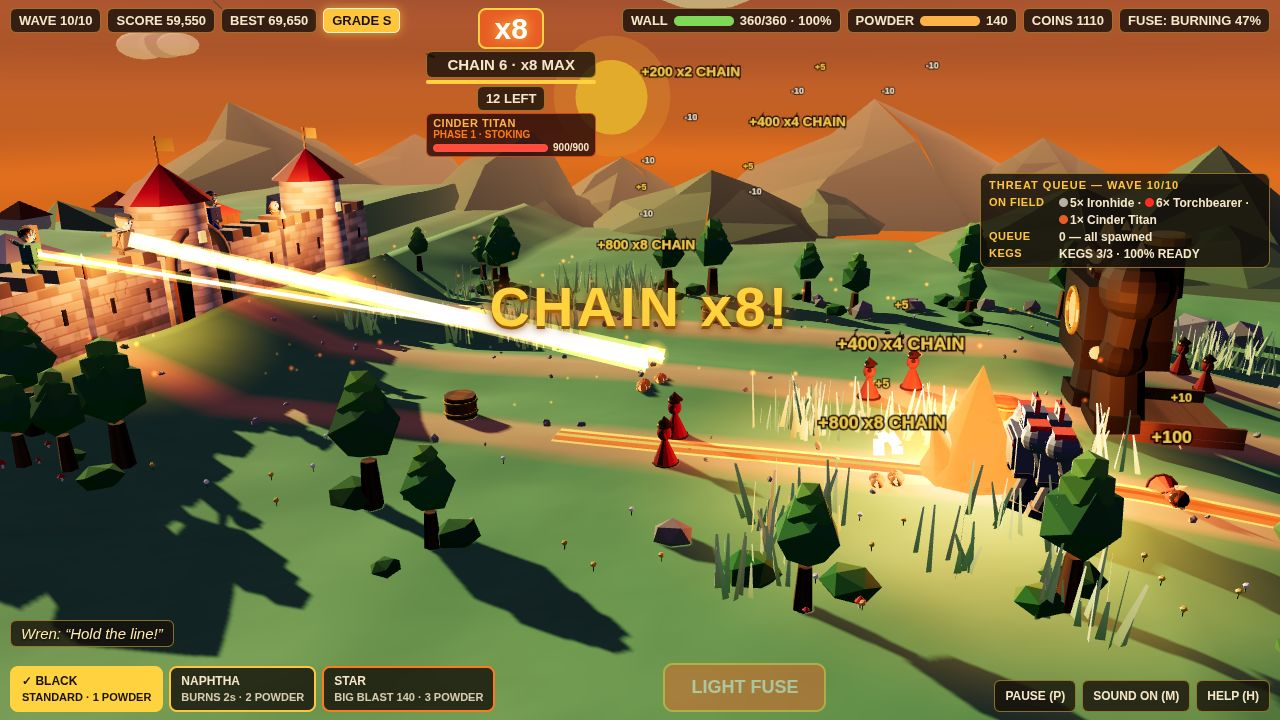
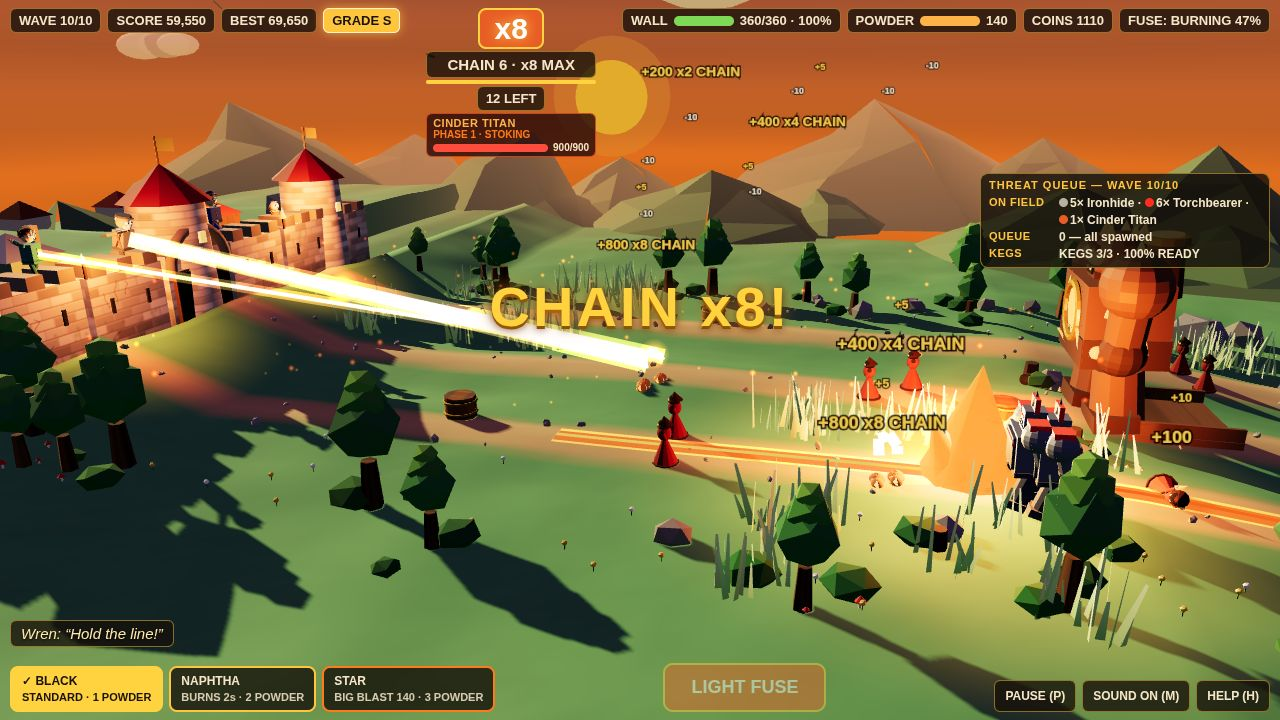
R5B: Titan glow-up + mid-field prop clusters + scorch band (Mark 01:37 WIB, items #3 + #4 + ground; staging honest skip)
- Titan: warm ember-iron body (was near-black), core 0.34s->0.44s + flicker 2.2->3.2, ember seams wrap camera sides, eyes 0.13s->0.15s. Scale 4.0x unchanged.
- Mid-field: 5 static prop clusters (15 props) + scorch band + 48 ember flecks, all frustum-confined to the action-only region so title/draft/results stay byte-identical.
- Staging: HONEST SKIP — single x8 burn in wave 10 (Titan x 33->32.5), no later x8 moment exists; numbers change within the burn itself.
- Determinism MATCH 5/5, 0 errors. Numbers EXACTLY unchanged (BEST 69,650 / action 59,550 / draft 21,050 / results S 69,650).

diff --git a/game/src/terrain.js b/game/src/terrain.js
@@ -193,6 +193,9 @@ export function buildTerrain(scene, rng) {
   const colDry = new THREE.Color(0xb59a68);
   const colTrample = new THREE.Color(0x8a7a5a);
   const colWear = new THREE.Color(0xd8bc84);
+  // R5B ground treatment: old burn scars (char) + ember glints.
+  const colScorch = new THREE.Color(0x4a3423);
+  const colEmber = new THREE.Color(0xff7a1a);
   const tmp = new THREE.Color();
   for (let i = 0; i < pos.count; i += 1) {
     const x = pos.getX(i);
@@ -235,6 +238,31 @@ export function buildTerrain(scene, rng) {
       tmp.multiplyScalar(1 + rut * 0.12 + stone * 0.06);
       // Center wear: the middle of the road is lighter, walked bare.
       tmp.lerp(colWear, (1 - laneDist / roadWidth) * 0.08);
+    }
+    // ROUND 5 AGENT B (ground treatment, Mark 01:37 WIB): old burn scars —
+    // a scorched / ember-strewn band in the inter-lane gaps. Chosen over
+    // a denser far tree line for two reasons: (1) the empty region is the
+    // MID-field, not the frame edges (which already have trees); (2) the
+    // tree line is visible in EVERY shot, while this band can be confined
+    // to the ACTION-ONLY side of the field (frustum-checked per-z:
+    // south gap x >= 25.5, north gap x >= 26.5 at y=1; band uses x >= 29
+    // / x >= 30.5 — the first try at x >= 27 / 28.5 leaked 33 pixels into
+    // the draft frame's right edge via vertex-colour interpolation +
+    // terrain-height shift, so the edge moved 2u east; capped at x <= 33
+    // to stay clear of the river/bridge at x 34.75+), so title/draft/
+    // results stay byte-identical. Patchy char (noise mask, never a solid
+    // swath) + ember flecks, max ~50% lerp in the worst patch — BRIGHT
+    // identity stays, ground stays inside Mark's 35% texture budget. The
+    // band sits BETWEEN lanes, never on a road (roads are on the lanes).
+    const inScorchSouth = z >= 4 && z <= 10 && x >= 29 && x <= 33;
+    const inScorchNorth = z >= -10 && z <= -4 && x >= 30.5 && x <= 33;
+    if (inScorchSouth || inScorchNorth) {
+      const scorchMask = smoothNoise(x * 0.5, z * 0.5, 99);
+      if (scorchMask > 0.5) {
+        tmp.lerp(colScorch, Math.min(0.5, (scorchMask - 0.5) * 1.0));
+      }
+      const fleck = hash2(Math.floor(x * 2), Math.floor(z * 2), 101);
+      if (fleck > 0.93) tmp.lerp(colEmber, 0.45);
     }
     colors[i * 3] = tmp.r;
     colors[i * 3 + 1] = tmp.g;
@@ -834,6 +862,96 @@ export function buildTerrain(scene, rng) {
     birds.add(bird);
   }
   group.add(birds);
+
+  // ROUND 5 AGENT B (item #4, Mark 01:37 WIB): mid-field prop clusters —
+  // the action frame's mid-field is ~40% empty green. The world builder
+  // put every tree/rock/bush at the field EDGES (z ±20..31) and left the
+  // playfield bare; these clusters fill the gaps BETWEEN the lanes on the
+  // action-only side. Placement rules (all frustum-checked at y=1 and
+  // y=2.5, so title/draft/results stay byte-identical): south gap x >= 27,
+  // north gap x >= 28.5, near strip x >= 20; every prop x <= 33 (clear of
+  // the river/bridge at x 34.75+); every prop >= 4.5u from a lane centre
+  // (trail + enemy path stay clear) and >= 5u from a keg spot; all props
+  // <= ~1.6u tall (low — they never occlude the trail, the beams, or the
+  // Titan). Fixed literal coordinates: no rng drawn here, so the seeded
+  // layout of everything else is untouched.
+  const clusterRockGeo = new THREE.IcosahedronGeometry(1, 0);
+  const clusterRockMat = new THREE.MeshStandardMaterial({ color: 0x8a8a7a, roughness: 1, flatShading: true });
+  const clusterStumpMat = new THREE.MeshStandardMaterial({ color: 0x4a3428, roughness: 1, flatShading: true });
+  const clusterBushGeo = new THREE.IcosahedronGeometry(1, 0);
+  const clusterBushMat = new THREE.MeshStandardMaterial({ color: 0x2e6b34, roughness: 1, flatShading: true });
+  const clusterKegMat = new THREE.MeshStandardMaterial({ map: makeKegTextureSeeded(77), roughness: 0.9 });
+  const clusters = new THREE.Group();
+  clusters.name = 'propClusters';
+  // [type, cx, cz, dx, dz, scale, rotY] — cx/cz = cluster centre.
+  // R5B fix: C1 moved 27 -> 29 (the 27 centre's rock western edge at
+  // x 25.1 grazed the draft frame's right edge — same 33-pixel leak as
+  // the scorch band; 2u east clears it with margin).
+  const clusterProps = [
+    ['rock', 29, 7, -0.8, 0.4, 1.1, 0.6],
+    ['stump', 29, 7, 0.7, -0.5, 1.0, 0],
+    ['bush', 29, 7, 0.2, 0.9, 1.3, 1.2],
+    ['keg', 29, 7, 1.1, 0.6, 0.9, 0.4],
+    ['rock', 30, 8.5, -0.5, 0.3, 0.9, 1.9],
+    ['bush', 30, 8.5, 0.6, -0.4, 1.0, 0.3],
+    ['rock', 30, -7, 0.7, 0.5, 1.2, 2.4],
+    ['stump', 30, -7, -0.6, -0.6, 1.1, 0],
+    ['bush', 30, -7, -0.1, 0.8, 1.2, 2.0],
+    ['keg', 30, -7, -1.0, 0.4, 0.85, 1.1],
+    ['bush', 20, 22, -0.7, 0.3, 1.4, 0.8],
+    ['rock', 20, 22, 0.6, -0.5, 1.0, 1.5],
+    ['stump', 20, 22, 0.1, 0.9, 0.9, 0],
+    ['rock', 28, 21, -0.4, -0.3, 1.1, 0.2],
+    ['bush', 28, 21, 0.7, 0.5, 1.2, 2.6]
+  ];
+  for (const [type, cx, cz, dx, dz, sc, ry] of clusterProps) {
+    const px = cx + dx;
+    const pz = cz + dz;
+    const py = terrainHeight(px, pz);
+    let m;
+    if (type === 'rock') {
+      m = new THREE.Mesh(clusterRockGeo, clusterRockMat);
+      m.scale.set(sc, sc * 0.7, sc);
+      m.position.set(px, py + 0.3 * sc, pz);
+      m.rotation.set(0.4, ry, 0.2);
+    } else if (type === 'stump') {
+      m = new THREE.Mesh(new THREE.CylinderGeometry(0.45 * sc, 0.55 * sc, 1.2 * sc, 8), clusterStumpMat);
+      m.position.set(px, py + 0.6 * sc, pz);
+      m.rotation.set(0, ry, 0);
+    } else if (type === 'bush') {
+      m = new THREE.Mesh(clusterBushGeo, clusterBushMat);
+      m.scale.set(sc, sc * 0.55, sc);
+      m.position.set(px, py + 0.35 * sc, pz);
+      m.rotation.set(0, ry, 0);
+    } else { // broken keg: fallen on its side, half-sunk
+      m = new THREE.Mesh(new THREE.CylinderGeometry(0.55 * sc, 0.55 * sc, 1.1 * sc, 12), clusterKegMat);
+      m.position.set(px, py + 0.35 * sc, pz);
+      m.rotation.set(0, ry, 1.35);
+    }
+    m.castShadow = true;
+    clusters.add(m);
+  }
+  group.add(clusters);
+
+  // R5B: ember flecks — tiny glowing shards scattered in the scorch band
+  // (same rects as the vertex-colour scorch above). Dedicated rng stream
+  // so the main seeded layout is untouched.
+  const fleckRng = mulberry32(20261117 + 771);
+  const fleckGeo = new THREE.ConeGeometry(0.17, 0.32, 4);
+  const fleckMat = new THREE.MeshStandardMaterial({ color: 0xff7a1a, emissive: 0xff5a00, emissiveIntensity: 2.5, roughness: 0.6, flatShading: true });
+  const flecks = new THREE.InstancedMesh(fleckGeo, fleckMat, 48);
+  for (let i = 0; i < 48; i += 1) {
+    const south = i % 2 === 0;
+    const fx = south ? range(fleckRng, 29, 33) : range(fleckRng, 30.5, 33);
+    const fz = south ? range(fleckRng, 4, 10) : range(fleckRng, -10, -4);
+    dummy.position.set(fx, terrainHeight(fx, fz) + 0.1, fz);
+    dummy.rotation.set(range(fleckRng, -0.4, 0.4), fleckRng() * Math.PI, range(fleckRng, -0.4, 0.4));
+    dummy.scale.setScalar(range(fleckRng, 0.7, 1.3));
+    dummy.updateMatrix();
+    flecks.setMatrixAt(i, dummy.matrix);
+  }
+  flecks.instanceMatrix.needsUpdate = true;
+  group.add(flecks);
 
   scene.add(group);
   return { group, wheat, grass, dryGrass, clouds, birds, brickTexture: null };

diff --git a/game/src/models.js b/game/src/models.js
@@ -457,11 +457,20 @@ export function buildCharacter(kind, opts = {}) {
     // THE CINDER TITAN: furnace golem, 4x scale. Wide shoulders, chimney
     // on the back, glowing furnace core in the chest, crown of embers,
     // huge arms. Must read as a BOSS at a glance.
-    const iron = std(0x2b2b2b, { rough: 0.7, metal: 0.35 });
-    const ironDark = std(0x1a1a1a, { rough: 0.8, metal: 0.3 });
+    // ROUND 5 AGENT B (item #3, Mark 01:37 WIB): the Titan read as a
+    // near-black blob in the action frame — dark iron (0x2b2b2b, metal
+    // 0.35) eats the golden-hour light on every face the camera sees
+    // (proven by verify-3d/capture-titan.jpg: body black, only the core /
+    // eyes / crown glow). Warm ember-iron instead: the body now reads as
+    // hot rusted iron, the core is bigger + hotter, and glowing ember
+    // seams wrap the camera-facing sides (front -x + south +z) — the
+    // cinderling lesson: ember must wrap the creature, not sit on its
+    // hidden back. Model scale UNCHANGED (4.0x); sim untouched.
+    const iron = std(0x7a5238, { rough: 0.6, metal: 0.15 });
+    const ironDark = std(0x54382a, { rough: 0.75, metal: 0.15 });
     const brass = std(0xc9a227, { rough: 0.45, metal: 0.6 });
-    const emberMat = std(0xff7a1a, { emissive: 0xff5a00, ei: 2.0 });
-    coreMat = std(0xff7a1a, { emissive: 0xff5a00, ei: 2.2, rough: 0.4 });
+    const emberMat = std(0xff7a1a, { emissive: 0xff5a00, ei: 2.6 });
+    coreMat = std(0xff7a1a, { emissive: 0xff5a00, ei: 3.2, rough: 0.4 });
 
     legL = piv(0, 1.0 * s, 0.55 * s);
     cyl(legL, 0.4 * s, 0.44 * s, 0.9 * s, iron, 0, -0.5 * s, 0);
@@ -474,11 +483,13 @@ export function buildCharacter(kind, opts = {}) {
     reg(body);
     box(inner, 1.34 * s, 0.5 * s, 1.74 * s, ironDark, 0, 1.25 * s, 0);
     // Furnace core: glowing circle on the chest front (-x) + brass ring.
-    const core = mesh(inner, new THREE.CircleGeometry(0.34 * s, 20), coreMat, -0.67 * s, 1.8 * s, 0);
+    // R5B: bigger (0.34s -> 0.44s) + hotter (flicker base 2.2 -> 3.2) so
+    // the furnace reads at 320px, not just at close-up.
+    const core = mesh(inner, new THREE.CircleGeometry(0.44 * s, 20), coreMat, -0.67 * s, 1.8 * s, 0);
     core.rotation.y = -Math.PI / 2;
-    const ring = mesh(inner, new THREE.TorusGeometry(0.38 * s, 0.05 * s, 8, 24), brass, -0.67 * s, 1.8 * s, 0);
+    const ring = mesh(inner, new THREE.TorusGeometry(0.48 * s, 0.07 * s, 8, 24), brass, -0.67 * s, 1.8 * s, 0);
     ring.rotation.y = Math.PI / 2;
-    flicker.push({ obj: core, kind: 'emissive', mat: coreMat, base: 2.2, amp: 0.25, speed: 5, phase: rng() * 6 });
+    flicker.push({ obj: core, kind: 'emissive', mat: coreMat, base: 3.2, amp: 0.25, speed: 5, phase: rng() * 6 });
     parts.core = core;
     // Damage cracks (hidden until damageState >= 1).
     const crackMat = std(0x0d0d0d, { rough: 1 });
@@ -487,6 +498,17 @@ export function buildCharacter(kind, opts = {}) {
       c.visible = false;
       cracks.push(c);
     }
+    // R5B: ember seams — glowing cracks wrapping the CAMERA-facing sides
+    // (front -x + south +z). Always visible: the Titan is a furnace, its
+    // seams glow even at full HP (the damage cracks above stay gated).
+    // Body face is x -0.65s / z +0.85s; seams sit half-embedded like the
+    // damage cracks, so no z-fighting.
+    const seam = (w, h, d, x, y, z, rz = 0) => box(inner, w, h, d, emberMat, x, y, z, 0, 0, rz);
+    seam(0.04 * s, 0.55 * s, 0.07 * s, -0.66 * s, 1.35 * s, 0.55 * s, 0.15);
+    seam(0.04 * s, 0.5 * s, 0.07 * s, -0.66 * s, 2.15 * s, -0.5 * s, -0.2);
+    seam(0.04 * s, 0.4 * s, 0.07 * s, -0.66 * s, 1.15 * s, -0.55 * s, 0.5);
+    seam(0.07 * s, 0.5 * s, 0.04 * s, 0.25 * s, 1.5 * s, 0.86 * s, 0.2);
+    seam(0.07 * s, 0.45 * s, 0.04 * s, -0.3 * s, 2.1 * s, 0.86 * s, -0.25);
 
     // Wide shoulders + spikes.
     ball(inner, 0.55 * s, iron, 0, 2.45 * s, 1.0 * s);
@@ -524,8 +546,8 @@ export function buildCharacter(kind, opts = {}) {
       const cz = Math.sin(a) * 0.3 * s;
       cone(head, 0.1 * s, 0.24 * s, emberMat, cx, 0.5 * s, cz, range(rng, -0.15, 0.15), 0, range(rng, -0.15, 0.15));
     }
-    emberEye(head, -0.42 * s, 0.08 * s, 0.18 * s, 0.13 * s);
-    emberEye(head, -0.42 * s, 0.08 * s, -0.18 * s, 0.13 * s);
+    emberEye(head, -0.42 * s, 0.08 * s, 0.2 * s, 0.15 * s);
+    emberEye(head, -0.42 * s, 0.08 * s, -0.2 * s, 0.15 * s);
     // Heavy brow + dark mouth with ember teeth.
     box(head, 0.08 * s, 0.1 * s, 0.56 * s, ironDark, -0.44 * s, 0.22 * s, 0);
     box(head, 0.04 * s, 0.1 * s, 0.34 * s, std(0x0d0d0d), -0.46 * s, -0.18 * s, 0);
